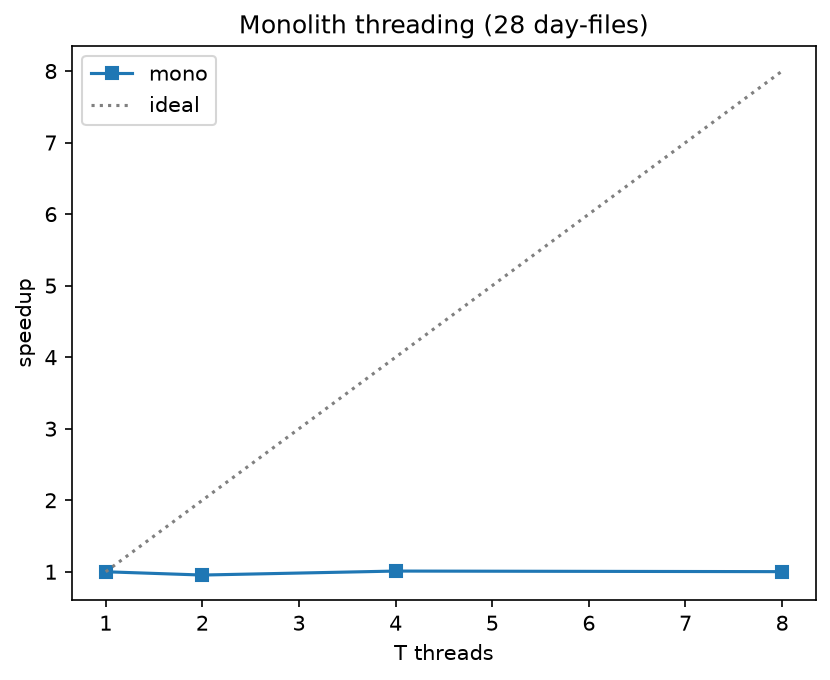
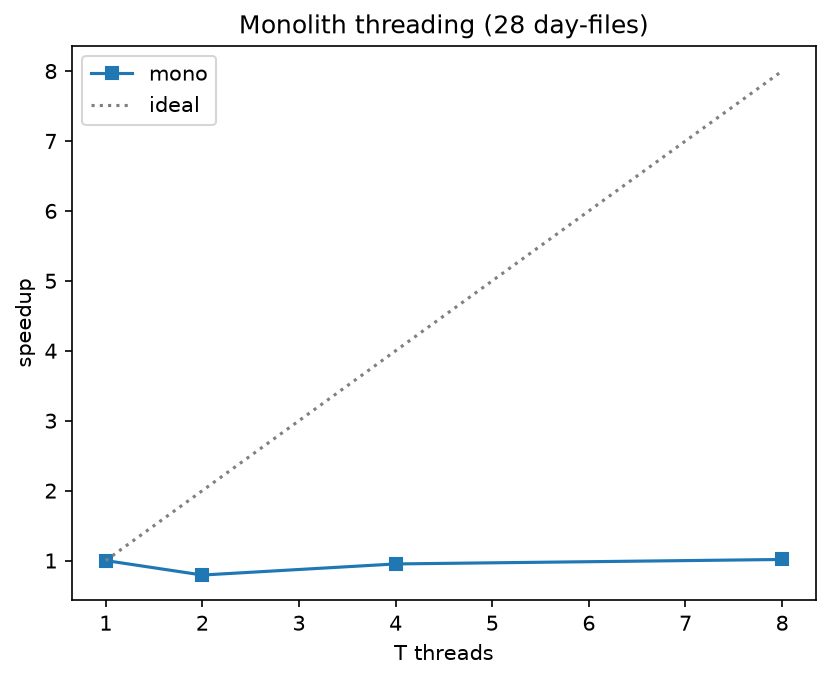
bench: re-measure under the ts identity, and correct what the old run claimed
Every number in docs/bench/results.md is larger than the version it replaces,
and that is the correction. The old sweep wrote 14,372,237 rows for an input
that produces 21,872,663 events, so it was timing 66% of the work and counting
the shortfall as speed. 28-day medians, old -> new: mono-1T 87.5 -> 101.0 s,
MAS N=16 75.7 -> 91.2 s, mono-MT T=8 87.3 -> 99.4 s.

The correctness gate now checks something. oracle_union.py counted distinct
(head_id, cap_seq) -- the quantity the defect leaves stable -- so all 81 runs
reported oracle-exact while a third of February was dropped. Counting
(head_id, ts), the 28-day expectation moves to 21,872,663 and all 81 runs
still match.

The finding worth the sweep: merge_s stopped growing with N. It used to climb
35.1 -> 50.9 s from N=1 to N=16; it is now flat at 63-65 s. That growth WAS the
defect doing work -- more stores meant more colliding cap_seq for INSERT OR
IGNORE to resolve, and each resolution discarded a real closure. With disjoint
sources the merge only moves rows, so its cost follows volume, not
partitioning. It is also 70% of MAS N=16's wall time, which is the argument
perf/merge-set-based rests on.

The scaling conclusion survives, weaker: clean parallelises 3.73x (up from
3.50x, more write work to spread), MAS tops out at 1.11x over mono-1T instead
of 1.16x, and mono-MT's optimum moved from T=4 to T=8.

run_bench.sh gains --only, --volumes and --out. Not convenience: the 30 MAS
[…]

diff --git a/docs/bench/results.md b/docs/bench/results.md
@@ -2,66 +2,107 @@
 
 | arch | n_workers | threads | files | clean_s | merge_s | total_s | events_per_s | peak_rss_mb | cpu_pct |
 | --- | --- | --- | --- | --- | --- | --- | --- | --- | --- |
-| mas | 1 | 1 | 1 | 3.233 | 1.847 | 5.078 | 150790 | 146.6 | 160 |
-| mas | 1 | 1 | 7 | 16.341 | 9.473 | 25.815 | 151114 | 243 | 167.9 |
-| mas | 1 | 1 | 28 | 80.502 | 35.101 | 115.705 | 189038 | 569.8 | 153.6 |
-| mas | 2 | 1 | 1 | 3.212 | 1.851 | 5.063 | 151237 | 168 | 160.6 |
-| mas | 2 | 1 | 7 | 8.75 | 9.664 | 18.396 | 212058 | 290.3 | 328.8 |
-| mas | 2 | 1 | 28 | 48.702 | 44.821 | 93.935 | 232849 | 573.9 | 303 |
-| mas | 4 | 1 | 1 | 3.232 | 1.887 | 5.108 | 149904 | 207.9 | 216.7 |
-| mas | 4 | 1 | 7 | 7.034 | 9.708 | 16.736 | 233091 | 460.2 | 427 |
-| mas | 4 | 1 | 28 | 32.117 | 50.458 | 82.511 | 265088 | 723.6 | 571.9 |
-| mas | 8 | 1 | 1 | 3.231 | 1.847 | 5.077 | 150820 | 291.4 | 165.8 |
-| mas | 8 | 1 | 7 | 5.141 | 9.697 | 14.838 | 262907 | 711.5 | 686.2 |
-| mas | 8 | 1 | 28 | 26.951 | 50.769 | 77.95 | 280599 | 1129.8 | 786.6 |
-| mas | 16 | 1 | 1 | 3.264 | 1.853 | 5.112 | 149787 | 455.4 | 172 |
-| mas | 16 | 1 | 7 | 5.205 | 9.796 | 15.001 | 260050 | 874.2 | 687 |
-| mas | 16 | 1 | 28 | 25.029 | 50.899 | 75.712 | 288893 | 1827.9 | 905.8 |
-| mono-1T | 0 | 1 | 1 | 3.29 | 0 | 3.29 | 232739 | 80.7 | 106.3 |
-| mono-1T | 0 | 1 | 7 | 17.506 | 0 | 17.506 | 222839 | 108.2 | 107.7 |
-| mono-1T | 0 | 1 | 28 | 87.483 | 0 | 87.483 | 250022 | 173.5 | 108.4 |
-| mono-MT | 0 | 2 | 1 | 3.321 | 1.949 | 5.265 | 145434 | 83.2 | 105.1 |
-| mono-MT | 0 | 2 | 7 | 9.372 | 10.354 | 19.729 | 197730 | 149.1 | 155.2 |
-| mono-MT | 0 | 2 | 28 | 47.866 | 44.112 | 91.681 | 238574 | 267.5 | 184.8 |
-| mono-MT | 0 | 4 | 1 | 3.331 | 1.949 | 5.292 | 144692 | 88.2 | 105.1 |
-| mono-MT | 0 | 4 | 7 | 6.365 | 10.447 | 16.789 | 232356 | 234 | 202.7 |
-| mono-MT | 0 | 4 | 28 | 35.653 | 50.974 | 86.627 | 252492 | 341.6 | 236.5 |
-| mono-MT | 0 | 8 | 1 | 3.328 | 1.958 | 5.285 | 144884 | 97.7 | 104.9 |
-| mono-MT | 0 | 8 | 7 | 6.466 | 10.554 | 17.033 | 229027 | 326.4 | 274.9 |
-| mono-MT | 0 | 8 | 28 | 33.671 | 53.443 | 87.336 | 250443 | 508.3 | 333.9 |
+| mas | 1 | 1 | 1 | 3.424 | 2.081 | 5.503 | 139144 | 222.1 | 169.8 |
+| mas | 1 | 1 | 7 | 16.993 | 10.606 | 27.595 | 141367 | 663.2 | 173.2 |
+| mas | 1 | 1 | 28 | 91.337 | 65.194 | 156.404 | 139847 | 2693.6 | 183.8 |
+| mas | 2 | 1 | 1 | 3.393 | 2.079 | 5.472 | 139933 | 246.4 | 170.1 |
+| mas | 2 | 1 | 7 | 9.36 | 10.568 | 19.928 | 195756 | 582 | 337.9 |
+| mas | 2 | 1 | 28 | 53.813 | 63.035 | 117.583 | 186019 | 2216.4 | 331.3 |
+| mas | 4 | 1 | 1 | 3.404 | 2.105 | 5.493 | 139398 | 295.9 | 170.6 |
+| mas | 4 | 1 | 7 | 7.816 | 10.817 | 18.658 | 209080 | 651.2 | 469.3 |
+| mas | 4 | 1 | 28 | 38.144 | 63.323 | 101.072 | 216407 | 1745.5 | 651.6 |
+| mas | 8 | 1 | 1 | 3.392 | 2.073 | 5.501 | 139195 | 399.3 | 174.9 |
+| mas | 8 | 1 | 7 | 5.712 | 10.646 | 16.32 | 239033 | 869.7 | 707.3 |
+| mas | 8 | 1 | 28 | 29.758 | 62.848 | 92.606 | 236191 | 1611.1 | 825.7 |
+| mas | 16 | 1 | 1 | 3.472 | 2.107 | 5.552 | 137916 | 602 | 178.1 |
+| mas | 16 | 1 | 7 | 5.742 | 10.635 | 16.397 | 237910 | 1055 | 701.2 |
+| mas | 16 | 1 | 28 | 27.072 | 64.038 | 91.222 | 239774 | 2196.2 | 938 |
+| mono-1T | 0 | 1 | 1 | 3.431 | 0 | 3.431 | 223174 | 80.4 | 113.7 |
+| mono-1T | 0 | 1 | 7 | 18.251 | 0 | 18.251 | 213743 | 103.6 | 117.8 |
+| mono-1T | 0 | 1 | 28 | 100.979 | 0 | 100.979 | 216606 | 229.6 | 117.2 |
+| mono-MT | 0 | 2 | 1 | 3.489 | 2.242 | 5.813 | 131724 | 133.9 | 111.1 |
+| mono-MT | 0 | 2 | 7 | 10.164 | 11.366 | 21.529 | 181198 | 320.1 | 160.1 |
+| mono-MT | 0 | 2 | 28 | 55.689 | 70.55 | 127.352 | 171750 | 1527.8 | 158.4 |
+| mono-MT | 0 | 4 | 1 | 3.48 | 2.215 | 5.696 | 134430 | 144 | 109.7 |
+| mono-MT | 0 | 4 | 7 | 7.058 | 11.592 | 18.65 | 209170 | 249 | 241.3 |
+| mono-MT | 0 | 4 | 28 | 37.903 | 68.508 | 106.097 | 206157 | 915.3 | 265.9 |
+| mono-MT | 0 | 8 | 1 | 3.442 | 2.172 | 5.614 | 136393 | 151 | 110.9 |
+| mono-MT | 0 | 8 | 7 | 6.975 | 11.808 | 18.652 | 209147 | 341.5 | 276.6 |
+| mono-MT | 0 | 8 | 28 | 31.409 | 67.829 | 99.43 | 219980 | 735.7 | 278.9 |
 
 Caveats: laptop thermals (no fan control), median-of-3, N=16 on 8 cores is a deliberate oversubscription point, merge phase reported separately; mono-MT uses a std::thread atomic-counter pool (dynamic load balancing, slightly fairer than PUSH/PULL round-robin).
 
-## Data notes (real month, measured during Task 5)
+## Data notes (real month, re-measured 2026-08-11 under the ts event identity)
 
-- **The month's Count counter reset mid-day-16**: days 16-24 replay cap_seq
-  ranges already emitted in days 1-15 (day 17 contributes only 15 new rows out
-  of 858,651 events); days 25-28 pass the old high-water mark. All 28
-  day-boundary seams are continuous — the reset is only visible at month
-  scale. The store's UNIQUE(machine_id, head_id, cap_seq) constraint dedupes
-  replayed sequences identically for every architecture, so 21,872,663
-  processed events persist as 14,372,237 distinct rows (28 days). The
-  correctness oracle is therefore the distinct-pair union
-  (`python/oracle_union.py`), which every one of the 81 runs matched exactly.
-- **`events_per_s` counts processed events** (identical input work for every
-  config); row-persistence differs from it only through the dedup above.
+- **The store used to discard real capping events, and this benchmark used to
+  reward it.** The previous version of this file recorded that "days 16-24
+  replay cap_seq ranges already emitted in days 1-15" and that
+  `UNIQUE(machine_id, head_id, cap_seq)` "dedupes replayed sequences", so
+  21,872,663 processed events "persist as 14,372,237 distinct rows". The replay
+  hypothesis was never tested and is false: of head 1's 23,851 day-17 closures
+  whose `cap_seq` collides with days 1-15, **18,721 carry a different torque**.
+  They are distinct physical caps. The PLC's Count register resets and climbs
+  again through values it has already used. Identity is now
+  `(machine_id, head_id, ts)` — one head closes at most once per poll — and all
+  28 day-files persist in full: **21,872,663 events, 21,872,663 rows**.
+- **Every number in the table is therefore larger than the version it replaces,
+  and that is the correction, not a regression.** The old run wrote 14.4M rows
+  where this one writes 21.9M for the same input, so it was timing 66% of the
+  work. 28-day medians, old -> new: mono-1T 87.5 -> 101.0 s, MAS N=16
+  75.7 -> 91.2 s, mono-MT T=8 87.3 -> 99.4 s.
+- **The correctness oracle now checks something.** `oracle_union.py` counted
+  distinct `(head_id, cap_seq)` — precisely the quantity the defect leaves
+  stable — so all 81 runs reported "oracle-exact" while a third of February was
+  being dropped. It counts distinct `(head_id, ts)` now, and the 28-day
+  expectation moved from 14,372,237 to 21,872,663. All 81 runs match it.
+- **The merge cost stopped growing with N, and that is diagnostic.** Old
+  merge_s at 28 days climbed with store count (N=1 35.1 s -> N=16 50.9 s);
+  it is now flat (N=1 65.2, N=2 63.0, N=4 63.3, N=8 62.8, N=16 64.0 s). The
+  old growth *was the defect doing work*: more stores meant more colliding
+  `cap_seq` for `INSERT OR IGNORE` to resolve, and every resolution threw away
+  a real closure. With disjoint sources the merge only moves rows, so its cost
+  follows total volume and not how the volume is partitioned.
+- **The scaling conclusion survives, slightly weaker.** Clean parallelises
+  better than before (mono-1T 101.0 s -> MAS N=16 27.1 s, **3.73x**, up from
+  3.50x, because there is more write work to spread). End-to-end MAS still tops
+  out over mono-1T but at **1.11x** (91.2 s vs 101.0 s) rather than 1.16x.
+  mono-MT still never meaningfully beats mono-1T at month scale, though its
+  optimum moved from T=4 to T=8 (T=2 127.4, T=4 106.1, T=8 99.4 s) for the same
+  reason: more write work per thread rewards more threads.
+- **The merge is now 70% of MAS N=16's wall time** (64.0 s of 91.2 s), up from
+  67%. The Amdahl wall of spec §14 Q4's "per-worker single-writer stores, merge
+  at the sink" did not move; it got taller. `merge_from` is N sequential
+  `INSERT OR IGNORE` passes, each probing the UNIQUE index once per row against
+  a growing destination — ~22M probes that, sources now being disjoint, almost
+  never find anything. Branch `perf/merge-set-based` replaces them with one
+  hash-based `DISTINCT` over the union; **not yet measured**, because measuring
+  it during this sweep would have falsified both.
+- **`events_per_s` counts processed events**, identical input work for every
+  config. Row persistence now equals it exactly — nothing is dropped between
+  extraction and the store.
 - **Initial dispatch is gated on worker registration** (`--workers N`): without
   the gate, ZMQ PUSH's slow-joiner behavior queued every file into the first
   connected worker and MAS timings measured a serialized pipeline (sweep #1,
-  discarded). This sweep distributes work across all N workers.
+  discarded).
 - **`rows_per_s` uses a nominal 86,399 rows/day**; real days range 58,772 to
   86,401 raw rows, so it is approximate for the 7- and 28-day volumes —
-  `events_per_s` is the measured throughput. 
-- **The merge phase is the scaling wall**: clean time parallelizes well
-  (28-day medians: mono-1T 87.5 s -> MAS N=8 27.0 s, 3.2x; N=16 25.0 s, 3.5x)
-  but merging per-worker/per-thread stores into one costs ~35-54 s at month
-  scale, rising with store count (MAS N=1 35 s -> N>=4 ~50-51 s; mono-MT T=8
-  53 s). End-to-end: MAS tops out at 1.12-1.16x over mono-1T (N=8: 78.0 s vs
-  87.5 s); mono-MT never meaningfully beats mono-1T at month scale (best
-  1.01x at T=4, 86.6 s vs 87.5 s; T=2 is net slower). This is the measured
-  cost of the spec §14 Q4 "per-worker single-writer stores, merge at the
-  sink" resolution.
+  `events_per_s` is the measured throughput.
 - **MAS `clean_s` includes worker spawn, ZMQ connect, and the registration
-  wait** (`t_start` is stamped before workers fork; the window closes after
-  the post-coordinator `wait`). Empirically small — v=1 clean_s is flat
-  ~3.2-3.3 s across N=1..16 — but it is part of the measured number.
+  wait**. Empirically small — v=1 clean_s is flat ~3.2-3.4 s across N=1..16 —
+  but it is part of the measured number.
+
+### Measurement integrity
+
+- The two series are not a controlled comparison. Same machine and same
+  harness, but the disk was in a different state (2.6 GB freed before this run)
+  and it is a laptop without fan control. Shape — how it scales with N, where
+  the wall sits — is reliable; absolute seconds across the two runs are
+  indicative.
+- The 30 MAS rows at volumes 1 and 7 were re-measured separately: during the
+  first pass `build/` was rebuilt underneath the running sweep while preparing
+  `perf/merge-set-based`, so some of those runs may have exercised the
+  set-based merge. They were re-run through the same harness with the restored
+  binaries (`run_bench.sh --only mas --volumes "1 7"`, added for this purpose)
+  and spliced in. The monolith block finished before any rebuild and the MAS
+  28-day block ran after the binaries were restored; neither was affected. The
+  superseded file is kept as `bench/results.csv.contaminated`.
